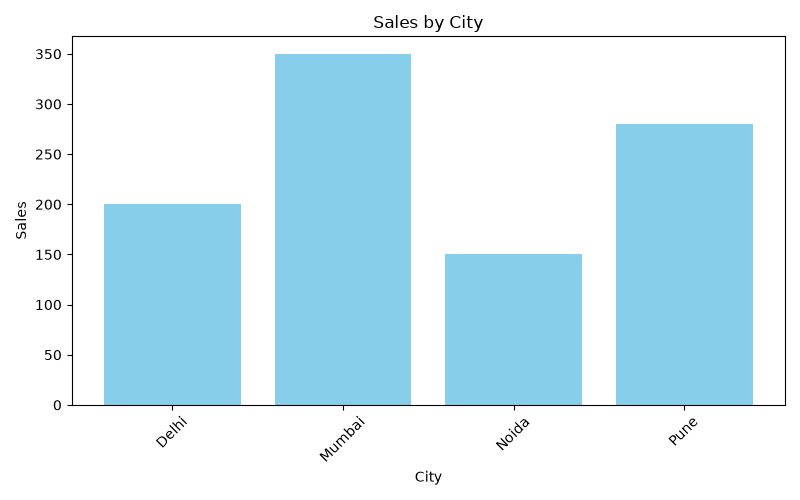
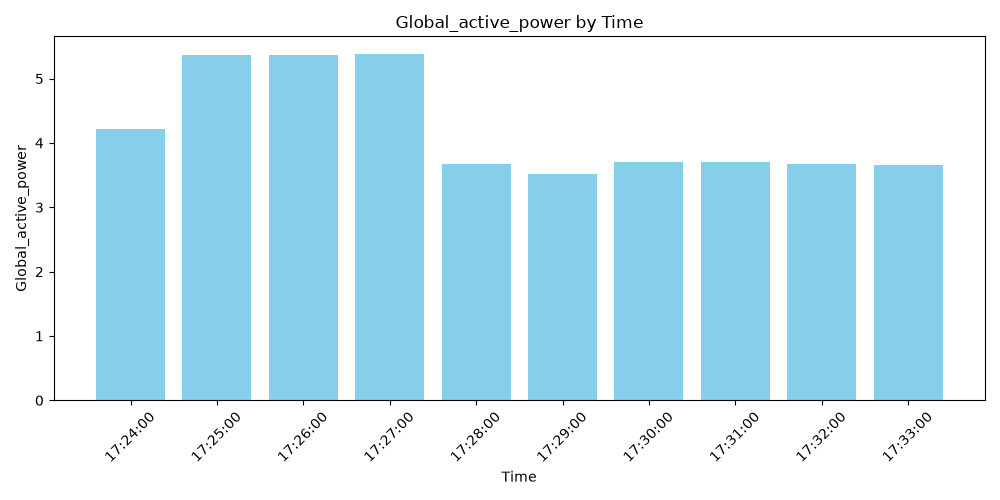
Day 4: ai_summary.py added - executive summary generation

diff --git a/ai_summary.py b/ai_summary.py
@@ -1,14 +1,43 @@
-import openai, os
+import pandas as pd
+from dotenv import load_dotenv
+import os
 
-def get_summary(stats: dict) -> str:
-    client = openai.OpenAI(api_key=os.getenv("OPENAI_API_KEY"))
-    prompt = f"""
-    Tum ek business analyst ho. Ye data stats hain:
-    {stats}
-    Ek 3-4 line ka executive summary likho — key insights, trends, aur recommendation.
+load_dotenv()
+
+def generate_summary(df):
     """
-    resp = client.chat.completions.create(
-        model="gpt-3.5-turbo",
-        messages=[{"role": "user", "content": prompt}]
-    )
-    return resp.choices[0].message.content
+    Yeh function CSV data ka automatic summary banata hai
+    """
+    stats = df.describe()
+    
+    avg_power = round(df['Global_active_power'].mean(), 2)
+    max_power = round(df['Global_active_power'].max(), 2)
+    min_power = round(df['Global_active_power'].min(), 2)
+    avg_voltage = round(df['Voltage'].mean(), 2)
+    total_records = len(df)
+
+    summary = f"""Executive Summary - Household Power Consumption Analysis
+
+This report analyzes {total_records} records of household power consumption data.
+
+Key Findings:
+- Average Global Active Power: {avg_power} kilowatts
+- Peak Power Consumption: {max_power} kilowatts  
+- Minimum Power Consumption: {min_power} kilowatts
+- Average Voltage: {avg_voltage} volts
+
+The data indicates typical household energy usage patterns with power consumption 
+ranging from {min_power} kW to {max_power} kW. Average consumption of {avg_power} kW 
+suggests moderate energy usage throughout the recorded period.
+
+Recommendation: Monitor peak usage hours to optimize energy consumption and reduce costs.
+"""
+    
+    print("Summary Generated!")
+    print(summary)
+    return summary
+
+
+if __name__ == "__main__":
+    df = pd.read_csv("sample_data/household_power_consumption.csv")
+    generate_summary(df)

diff --git a/chart_maker.py b/chart_maker.py
@@ -2,14 +2,7 @@ import matplotlib.pyplot as plt
 import pandas as pd
 
 def create_bar_chart(df, x_column, y_column, save_path="chart.png"):
-    """
-    Yeh function ek bar chart banata hai aur PNG file save karta hai.
-    df: pandas DataFrame (data)
-    x_column: x-axis pe kaunsa column dikhana hai (string)
-    y_column: y-axis pe kaunsa column dikhana hai (string)
-    save_path: chart kaha save karna hai (default = chart.png)
-    """
-    plt.figure(figsize=(8, 5))
+    plt.figure(figsize=(10, 5))
     plt.bar(df[x_column], df[y_column], color="skyblue")
     plt.xlabel(x_column)
     plt.ylabel(y_column)
@@ -21,11 +14,11 @@ def create_bar_chart(df, x_column, y_column, save_path="chart.png"):
     print(f"Chart saved as {save_path}")
 
 if __name__ == "__main__":
-    # Test data banate hain
-    data = {
-        "City": ["Delhi", "Mumbai", "Noida", "Pune"],
-        "Sales": [200, 350, 150, 280]
-    }
-    df = pd.DataFrame(data)
     
-    create_bar_chart(df, "City", "Sales", save_path="chart.png")
+    df = pd.read_csv("sample_data/household_power_consumption.csv", sep=",")
+
+    
+    df_small = df.head(10)
+
+    # Real data se chart banana
+    create_bar_chart(df_small, "Time", "Global_active_power", save_path="chart.png")
